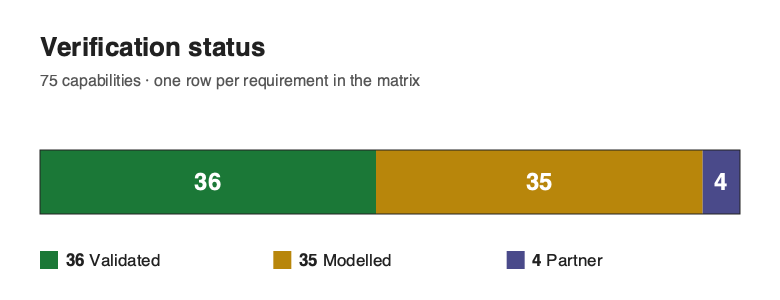
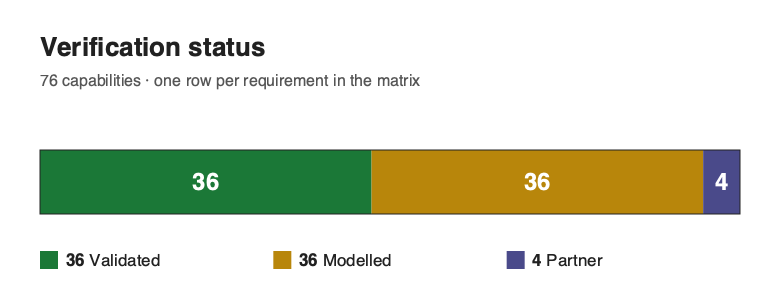
docs: reconcile validation-count strings and figure to 76 after the attitude row
The attitude-dynamics row took the matrix to 76 (36 Validated / 36 Modelled /
4 Partner). Update the figure alt-text, caption and provenance-diagram alt in the
GitHub README and the figure alt-text in the crates.io/PyPI/npm READMEs (the count
sites the badge/summary update missed), and regenerate validation-breakdown.svg/png
from the matrix so every count surface agrees. Caught by the count-string guard.

diff --git a/README.md b/README.md
@@ -67,8 +67,8 @@ Each row is checked against an **independent external oracle** (real dataset, in
 | ✅ | GNSS DOP · ML detector metrics | to **1e-6** · to **1e-9** | gnss_lib_py · scikit-learn |
 
 <p align="center">
-  <img src="docs/assets/figures/validation-breakdown.png" alt="Verification status across all 75 capabilities: 36 Validated (checked vs external oracle), 35 Modelled, 4 Partner-owned" width="780">
-  <br><sub>36 Validated · 35 Modelled · 4 Partner — <a href="docs/assets/figures/validation-breakdown.svg">SVG</a></sub>
+  <img src="docs/assets/figures/validation-breakdown.png" alt="Verification status across all 76 capabilities: 36 Validated (checked vs external oracle), 36 Modelled, 4 Partner-owned" width="780">
+  <br><sub>36 Validated · 36 Modelled · 4 Partner — <a href="docs/assets/figures/validation-breakdown.svg">SVG</a></sub>
 </p>
 
 *Free and open source under the GNU AGPL-3.0 — with a commercial licence available
@@ -1004,7 +1004,7 @@ kshana/
 ### Validation at a glance
 
 <p align="center">
-  <img src="docs/assets/diagrams/validation-provenance.png" alt="How a capability earns its label: Requirement maps to a module in src, to a test in tests, to an external oracle (real dataset, independent reference implementation, or published vectors), to a status — with a CI-enforced guard that no capability can be Validated without an external oracle. Live counts: 36 Validated, 35 Modelled, 4 Partner, 75 total" width="900">
+  <img src="docs/assets/diagrams/validation-provenance.png" alt="How a capability earns its label: Requirement maps to a module in src, to a test in tests, to an external oracle (real dataset, independent reference implementation, or published vectors), to a status — with a CI-enforced guard that no capability can be Validated without an external oracle. Live counts: 36 Validated, 36 Modelled, 4 Partner, 76 total" width="900">
   <br><sub>How a capability earns its label — the CI-enforced invariant: no external oracle ⇒ cannot be Validated · <a href="docs/assets/diagrams/validation-provenance.svg">SVG</a></sub>
 </p>
 

diff --git a/README.crates.md b/README.crates.md
@@ -55,7 +55,7 @@ independent reference implementation, or published reference vectors) and re-che
 | ✅ | GNSS DOP · ML detector metrics | to **1e-6** · to **1e-9** | gnss_lib_py · scikit-learn |
 
 <p align="center">
-  <img src="https://raw.githubusercontent.com/AshfordeOU/kshana/main/docs/assets/figures/validation-breakdown.png" alt="Verification status across all 75 capabilities: 36 Validated, 35 Modelled, 4 Partner-owned" width="780">
+  <img src="https://raw.githubusercontent.com/AshfordeOU/kshana/main/docs/assets/figures/validation-breakdown.png" alt="Verification status across all 76 capabilities: 36 Validated, 36 Modelled, 4 Partner-owned" width="780">
 </p>
 
 ## Install

diff --git a/README.pypi.md b/README.pypi.md
@@ -56,7 +56,7 @@ independent reference implementation, or published reference vectors) and re-che
 | ✅ | GNSS DOP · ML detector metrics | to **1e-6** · to **1e-9** | gnss_lib_py · scikit-learn |
 
 <p align="center">
-  <img src="https://raw.githubusercontent.com/AshfordeOU/kshana/main/docs/assets/figures/validation-breakdown.png" alt="Verification status across all 75 capabilities: 36 Validated, 35 Modelled, 4 Partner-owned" width="780">
+  <img src="https://raw.githubusercontent.com/AshfordeOU/kshana/main/docs/assets/figures/validation-breakdown.png" alt="Verification status across all 76 capabilities: 36 Validated, 36 Modelled, 4 Partner-owned" width="780">
 </p>
 
 ## Install

diff --git a/README.npm.md b/README.npm.md
@@ -51,7 +51,7 @@ parameter is traceable to a published source.
 | ✅ | GNSS DOP · ML detector metrics | to **1e-6** · to **1e-9** | gnss_lib_py · scikit-learn |
 
 <p align="center">
-  <img src="https://raw.githubusercontent.com/AshfordeOU/kshana/main/docs/assets/figures/validation-breakdown.png" alt="Verification status across all 75 capabilities: 36 Validated, 35 Modelled, 4 Partner-owned" width="780">
+  <img src="https://raw.githubusercontent.com/AshfordeOU/kshana/main/docs/assets/figures/validation-breakdown.png" alt="Verification status across all 76 capabilities: 36 Validated, 36 Modelled, 4 Partner-owned" width="780">
 </p>
 
 ## Install
